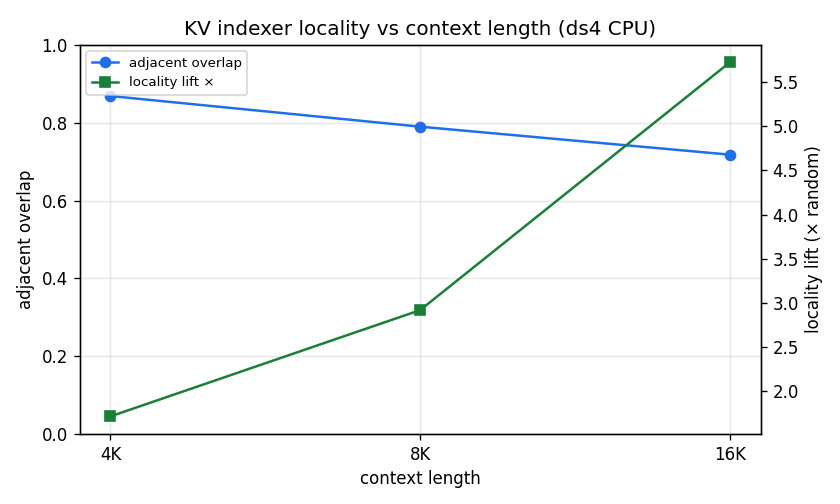
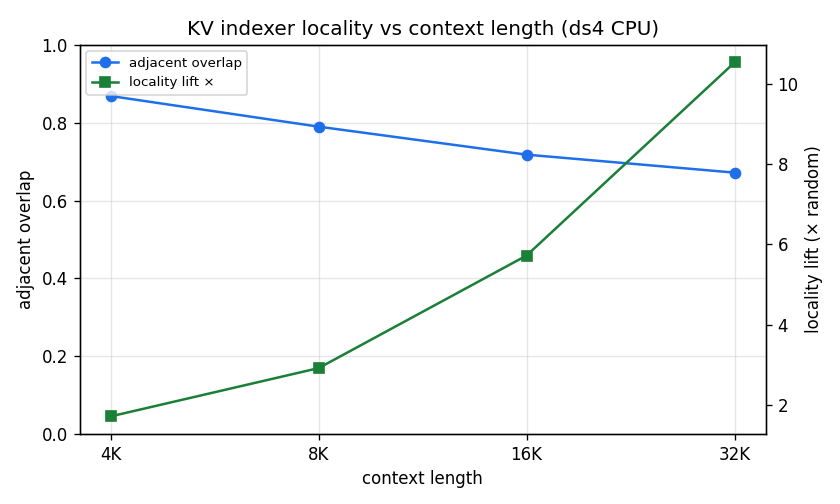
Sparse Attention Part III & IV: add the 32K sweep point
Both ds4 CPU reports now cover 4K/8K/16K/32K. Part III (KV): 32K row in the
setup, results, retention, working-set, semantic, and layer-group tables;
KPIs/plots updated (adjacent overlap 0.87->0.67, locality lift 1.7x->10.5x,
semantic-over-recency 6.7x at 32K). Part IV (MoE): 32K row in the learned +
retention/working-set tables; context-independence extended to 4 points
(0.376/0.373/0.374/0.348, ~15x random) with an honest note on the small 32K
dip; the per-layer decomposition confirmed at the 4th point. The MoE
context-scaling plot now uses a 0-based lift axis so the near-constant lift
isn't visually exaggerated.

Claude-Session: https://claude.ai/code/session_01Cz2EwUkKFPBe3N2CAyfRd1

diff --git a/04_sparse_attn/02_part3_cpu_kv_locality/report.html b/04_sparse_attn/02_part3_cpu_kv_locality/report.html
@@ -90,7 +90,7 @@
         <span class="tag">DeepSeek-V4-Flash (284B/13B MoE)</span>
         <span class="tag live">measured on CPU via ds4 (IQ2 quant)</span>
         <span class="tag">RULER niah_single_2, n=1 / length</span>
-        <span class="tag">context 4K · 8K · 16K</span>
+        <span class="tag">context 4K · 8K · 16K · 32K</span>
       </div>
     </header>
 
@@ -99,9 +99,9 @@
       <p class="lead">Part&nbsp;I measured how <b>predictable</b> DeepSeek-V4's per-token KV selection is on a GPU (vLLM/B200). Here we reproduce the core result on a completely different stack — a CPU-only C reference engine (<code class="k">ds4</code>) running the IQ2-quantized model — as a cross-check, and to instrument the exact same decode path that also emits the MoE routing trace in <a href="../03_part4_moe_locality/report.html">Part&nbsp;IV</a>. The temporal-locality picture holds.</p>
       <div class="headline">
         <div class="kpi"><div class="v">512</div><div class="l">KV entries selected per token, per CSA layer (top-k)</div></div>
-        <div class="kpi"><div class="v">0.87 &rarr; 0.72</div><div class="l">adjacent-step overlap, 4K &rarr; 16K</div></div>
-        <div class="kpi"><div class="v">1.7&times; &rarr; 5.7&times;</div><div class="l">locality lift over a random selection, rising with context</div></div>
-        <div class="kpi"><div class="v">3 / 3</div><div class="l">needle retrievals correct (4K, 8K, 16K)</div></div>
+        <div class="kpi"><div class="v">0.87 &rarr; 0.67</div><div class="l">adjacent-step overlap, 4K &rarr; 32K</div></div>
+        <div class="kpi"><div class="v">1.7&times; &rarr; 10.5&times;</div><div class="l">locality lift over a random selection, rising with context</div></div>
+        <div class="kpi"><div class="v">4 / 4</div><div class="l">needle retrievals correct (4K, 8K, 16K, 32K)</div></div>
       </div>
       <div class="callout"><b>Plain-language thesis.</b> The set of compressed-KV entries a token attends to is largely the same as the previous token's — and the further from random that gets (higher <i>lift</i>) as context grows, the more a small "hot set" in fast memory would pay off. This CPU run reproduces the GPU finding on an independent code path.</div>
     </section>
@@ -120,7 +120,7 @@
       <h2><span class="num">§2</span>Setup &amp; instrumentation</h2>
       <ul class="notes">
         <li><b>Engine.</b> <code class="k">ds4</code> — a single-file C CPU inference engine for DeepSeek-V4 — running <b>DeepSeek-V4-Flash</b> at IQ2 quantization (≈81&nbsp;GB), 64 threads, greedy decode (<code class="k">temp&nbsp;0</code>).</li>
-        <li><b>Task.</b> RULER <code class="k">niah_single_2</code> (single needle-in-a-haystack retrieval) at 4K, 8K, 16K tokens; one sample per length. The model retrieves the buried fact correctly at all three lengths.</li>
+        <li><b>Task.</b> RULER <code class="k">niah_single_2</code> (single needle-in-a-haystack retrieval) at 4K, 8K, 16K, 32K tokens; one sample per length. The model retrieves the buried fact correctly at all four lengths.</li>
         <li><b>Trace.</b> Every time a CSA layer's indexer selects its top-512, the selected compressed indices (and scores) are written to a JSONL trace — decode phase only — one record per (layer, token). 21 CSA layers of the 43 total.</li>
         <li><b>Analysis.</b> The trace is ingested to Parquet and reduced to the locality metrics below with the same code used for the GPU study, so the two are directly comparable.</li>
       </ul>
@@ -130,9 +130,10 @@
           <tr><td class="rowlabel">4K</td><td class="num">3,969</td><td class="num">153</td><td class="num">1,011</td><td class="num">50.6%</td><td class="num">~1h17m</td></tr>
           <tr><td class="rowlabel">8K</td><td class="num">7,485</td><td class="num">163</td><td class="num">1,891</td><td class="num">27.1%</td><td class="num">~1h53m</td></tr>
           <tr><td class="rowlabel">16K</td><td class="num">16,264</td><td class="num">117</td><td class="num">4,080</td><td class="num">12.5%</td><td class="num">~4h22m</td></tr>
+          <tr><td class="rowlabel">32K</td><td class="num">32,041</td><td class="num">117</td><td class="num">8,025</td><td class="num">6.4%</td><td class="num">~10h11m</td></tr>
         </tbody>
       </table>
-      <p class="cap">"Kept fraction" = 512 / candidate entries. As context grows the same 512-budget is drawn from a larger pool, so sparsity rises from ~2&times; (4K) to ~8&times; (16K).</p>
+      <p class="cap">"Kept fraction" = 512 / candidate entries. As context grows the same 512-budget is drawn from a larger pool, so sparsity rises from ~2&times; (4K) to ~16&times; (32K).</p>
     </section>
 
     <section class="card" id="metrics">
@@ -158,11 +159,12 @@
           <tr><td class="rowlabel">4K</td><td class="num">1,011</td><td class="num">2.0&times;</td><td class="num">0.868</td><td class="num">0.771</td><td class="num">0.132</td><td class="num">1.72&times;</td></tr>
           <tr><td class="rowlabel">8K</td><td class="num">1,891</td><td class="num">3.7&times;</td><td class="num">0.790</td><td class="num">0.662</td><td class="num">0.210</td><td class="num">2.92&times;</td></tr>
           <tr><td class="rowlabel">16K</td><td class="num">4,080</td><td class="num">8.0&times;</td><td class="num">0.718</td><td class="num">0.573</td><td class="num">0.282</td><td class="num">5.72&times;</td></tr>
+          <tr><td class="rowlabel">32K</td><td class="num">8,025</td><td class="num">15.7&times;</td><td class="num">0.672</td><td class="num">0.520</td><td class="num">0.328</td><td class="num">10.53&times;</td></tr>
         </tbody>
       </table>
       <figure>
         <img src="assets/kv_01_context_scaling.png" alt="KV adjacent overlap and locality lift versus context length">
-        <figcaption class="cap">Adjacent overlap (left axis) declines gently while locality lift (right axis) climbs 1.7&times;&rarr;5.7&times; from 4K to 16K. These CPU/IQ2 numbers match the GPU/vLLM values in Part&nbsp;I to within a few thousandths (e.g. 16K: 0.718 here vs 0.746 there).</figcaption>
+        <figcaption class="cap">Adjacent overlap (left axis) declines gently while locality lift (right axis) climbs 1.7&times;&rarr;10.5&times; from 4K to 32K. These CPU/IQ2 numbers match the GPU/vLLM values in Part&nbsp;I to within a few thousandths (e.g. 16K: 0.718 here vs 0.746 there).</figcaption>
       </figure>
       <div class="callout win"><b>Cross-stack agreement.</b> A completely separate CPU reference engine, at a different quantization, reproduces Part&nbsp;I's context-scaling curve. Temporal locality of KV selection is a property of the model, not the runtime.</div>
     </section>
@@ -176,18 +178,20 @@
           <tr><td class="rowlabel">4K</td><td class="num">0.868</td><td class="num">0.840</td><td class="num">0.815</td><td class="num">0.794</td><td class="num">0.779</td><td class="num">0.762</td><td class="num">0.753</td></tr>
           <tr><td class="rowlabel">8K</td><td class="num">0.790</td><td class="num">0.750</td><td class="num">0.712</td><td class="num">0.681</td><td class="num">0.669</td><td class="num">0.630</td><td class="num">0.606</td></tr>
           <tr><td class="rowlabel">16K</td><td class="num">0.718</td><td class="num">0.667</td><td class="num">0.619</td><td class="num">0.573</td><td class="num">0.532</td><td class="num">0.511</td><td class="num">0.498</td></tr>
+          <tr><td class="rowlabel">32K</td><td class="num">0.672</td><td class="num">0.622</td><td class="num">0.572</td><td class="num">0.541</td><td class="num">0.518</td><td class="num">0.467</td><td class="num">0.457</td></tr>
         </tbody>
       </table>
       <figure>
         <img src="assets/kv_02_retention.png" alt="KV retention versus decode lag for each context length">
-        <figcaption class="cap">Retention vs lag. Even 64 steps back, 4K keeps ~75% and 16K ~50% of the current selection.</figcaption>
+        <figcaption class="cap">Retention vs lag. Even 64 steps back, 4K keeps ~75% and 32K ~46% of the current selection.</figcaption>
       </figure>
-      <p>The <b>working-set ratio</b> shrinks fast with the window — the same entries keep recurring, so a compact hot set covers many steps. Over a 64-step window a CSA layer's union of selections is only 2.6% (4K) to 5.6% (16K) of <code class="k">64&times;512</code>:</p>
+      <p>The <b>working-set ratio</b> shrinks fast with the window — the same entries keep recurring, so a compact hot set covers many steps. Over a 64-step window a CSA layer's union of selections is only 2.6% (4K) to 6.7% (32K) of <code class="k">64&times;512</code>:</p>
       <table>
         <thead><tr><th>working-set ratio, window w &rarr;</th><th class="num">1</th><th class="num">2</th><th class="num">4</th><th class="num">8</th><th class="num">16</th><th class="num">32</th><th class="num">64</th></tr></thead>
         <tbody>
           <tr><td class="rowlabel">4K</td><td class="num">1.000</td><td class="num">0.565</td><td class="num">0.317</td><td class="num">0.176</td><td class="num">0.096</td><td class="num">0.051</td><td class="num">0.026</td></tr>
           <tr><td class="rowlabel">16K</td><td class="num">1.000</td><td class="num">0.640</td><td class="num">0.409</td><td class="num">0.259</td><td class="num">0.163</td><td class="num">0.099</td><td class="num">0.056</td></tr>
+          <tr><td class="rowlabel">32K</td><td class="num">1.000</td><td class="num">0.663</td><td class="num">0.437</td><td class="num">0.287</td><td class="num">0.185</td><td class="num">0.115</td><td class="num">0.067</td></tr>
         </tbody>
       </table>
     </section>
@@ -195,13 +199,14 @@
     <section class="card" id="semantic">
       <h2><span class="num">§6</span>Semantic reuse, not just recency</h2>
       <p class="lead">Is the model just re-picking the most-recent entries, or genuinely returning to old, relevant ones?</p>
-      <p>Compare the actual adjacent overlap to a <b>recency baseline</b> — the overlap with the most-recent 512 entries. If selection were pure recency, the two would match. Instead the gap widens with context: at 16K the model's selection is <b>4.6&times;</b> more self-similar than a recency policy would explain.</p>
+      <p>Compare the actual adjacent overlap to a <b>recency baseline</b> — the overlap with the most-recent 512 entries. If selection were pure recency, the two would match. Instead the gap widens with context: at 32K the model's selection is <b>6.7&times;</b> more self-similar than a recency policy would explain.</p>
       <table>
         <thead><tr><th>Context</th><th class="num">adjacent overlap</th><th class="num">recency baseline</th><th class="num">ratio</th></tr></thead>
         <tbody>
           <tr><td class="rowlabel">4K</td><td class="num">0.868</td><td class="num">0.429</td><td class="num">2.0&times;</td></tr>
           <tr><td class="rowlabel">8K</td><td class="num">0.790</td><td class="num">0.308</td><td class="num">2.6&times;</td></tr>
           <tr><td class="rowlabel">16K</td><td class="num">0.718</td><td class="num">0.157</td><td class="num">4.6&times;</td></tr>
+          <tr><td class="rowlabel">32K</td><td class="num">0.672</td><td class="num">0.100</td><td class="num">6.7&times;</td></tr>
         </tbody>
       </table>
       <div class="callout win"><b>Interpretation.</b> The selected set is <b>semantically</b> sticky — it keeps returning to the same old, relevant entries (here, the needle block), far beyond what a "keep the latest" policy captures. A prefetcher must track content, not just recency.</div>
@@ -216,6 +221,7 @@
           <tr><td class="rowlabel">4K</td><td class="num">0.860</td><td class="num">0.861</td><td class="num">0.884</td></tr>
           <tr><td class="rowlabel">8K</td><td class="num">0.779</td><td class="num">0.778</td><td class="num">0.812</td></tr>
           <tr><td class="rowlabel">16K</td><td class="num">0.713</td><td class="num">0.691</td><td class="num">0.750</td></tr>
+          <tr><td class="rowlabel">32K</td><td class="num">0.659</td><td class="num">0.644</td><td class="num">0.711</td></tr>
         </tbody>
       </table>
       <figure>
@@ -227,10 +233,10 @@
     <section class="card" id="takeaways">
       <h2><span class="num">§8</span>Takeaways</h2>
       <ul class="notes">
-        <li>An <b>independent CPU reference engine (ds4, IQ2)</b> reproduces the GPU/vLLM temporal-locality result: adjacent overlap 0.87&rarr;0.72 over 4K&rarr;16K, locality lift 1.7&times;&rarr;5.7&times;.</li>
+        <li>An <b>independent CPU reference engine (ds4, IQ2)</b> reproduces the GPU/vLLM temporal-locality result: adjacent overlap 0.87&rarr;0.67 over 4K&rarr;32K, locality lift 1.7&times;&rarr;10.5&times;.</li>
         <li>Locality <b>lift rises with context</b> — the selection gets more non-random exactly as the KV cache gets expensive.</li>
-        <li>Reuse is <b>semantic, not merely recent</b> — up to 4.6&times; beyond a recency baseline at 16K.</li>
-        <li>A compact hot set works: a 64-step working set is ≤5.6% of <code class="k">64&times;512</code>.</li>
+        <li>Reuse is <b>semantic, not merely recent</b> — up to 6.7&times; beyond a recency baseline at 32K.</li>
+        <li>A compact hot set works: a 64-step working set is ≤6.7% of <code class="k">64&times;512</code>.</li>
         <li>Deep layers are the most stable → per-layer budgets make sense.</li>
         <li>This CPU decode path is the same one that emits the MoE routing trace in <a href="../03_part4_moe_locality/report.html"><b>Part&nbsp;IV</b></a>.</li>
       </ul>
@@ -239,7 +245,7 @@
     <section class="card" id="limits">
       <h2><span class="num">§9</span>Honest limitations</h2>
       <ul class="notes">
-        <li><b>n = 1 per length.</b> One RULER sample each at 4K/8K/16K — no cross-sample confidence intervals (Part&nbsp;I's 60+ prompts supply that; the point here is cross-stack agreement).</li>
+        <li><b>n = 1 per length.</b> One RULER sample each at 4K/8K/16K/32K — no cross-sample confidence intervals (Part&nbsp;I's 60+ prompts supply that; the point here is cross-stack agreement).</li>
         <li><b>IQ2 quantization + CPU reference path.</b> Selections come from a heavily quantized model on a reference (non-GPU) kernel path; quantization may shift selections slightly versus full precision.</li>
         <li><b>Logical compressed-KV indices.</b> Overlaps are over logical entry ids, not a physical cache — an upper bound that ignores prefetch timing and bandwidth.</li>
         <li><b>Greedy decode, RULER needle task.</b> A single retrieval workload; broader tasks would strengthen external validity.</li>

diff --git a/04_sparse_attn/03_part4_moe_locality/report.html b/04_sparse_attn/03_part4_moe_locality/report.html
@@ -92,7 +92,7 @@
         <span class="tag">DeepSeek-V4-Flash (256 experts / 6 active)</span>
         <span class="tag live">measured on CPU via ds4 (IQ2 quant)</span>
         <span class="tag">RULER niah_single_2, n=1 / length</span>
-        <span class="tag">context 4K · 8K · 16K</span>
+        <span class="tag">context 4K · 8K · 16K · 32K</span>
       </div>
     </header>
 
@@ -103,7 +103,7 @@
         <div class="kpi"><div class="v">6 / 256</div><div class="l">experts activated per token, per layer (+1 shared)</div></div>
         <div class="kpi"><div class="v">~2.2 / 6</div><div class="l">experts carried over from the previous token (learned layers)</div></div>
         <div class="kpi"><div class="v">16&times;</div><div class="l">more self-similar than random expert choice (6/256)</div></div>
-        <div class="kpi"><div class="v">flat</div><div class="l">routing locality is the same at 4K, 8K, 16K</div></div>
+        <div class="kpi"><div class="v">flat</div><div class="l">routing locality barely moves across 4K&ndash;32K</div></div>
       </div>
       <div class="callout"><b>Plain-language thesis.</b> A token's chosen experts are substantially the same as the previous token's — about <b>2 of 6</b> persist step to step, 16&times; above chance. Unlike KV selection, this holds <i>independent of context length</i>, because the expert pool is fixed at 256. The three deterministic hash-routed layers are the exception: they are <i>not</i> temporally local, by construction.</div>
     </section>
@@ -124,7 +124,7 @@
       <ul class="notes">
         <li><b>Same run, second trace.</b> We instrumented the <code class="k">ds4</code> CPU decode path so that, right after the router selects its 6 experts, it logs <code class="k">(layer, decode&nbsp;step, token, the 6 expert ids, their weights)</code> — one record per (layer, token), decode phase only. This runs alongside the KV-indexer trace of <a href="../02_part3_cpu_kv_locality/report.html">Part&nbsp;III</a>, from the <i>same</i> forward pass.</li>
         <li><b>Coverage.</b> MoE routing happens in <b>every</b> layer's FFN (43 layers) — denser than the CSA indexer's 21 layers. Of those, 3 are hash-routed and 40 are learned-routed.</li>
-        <li><b>Workload.</b> RULER <code class="k">niah_single_2</code> at 4K, 8K, 16K; greedy decode; DeepSeek-V4-Flash at IQ2. 117–163 decode steps per run &times; 43 layers &times; 6 experts.</li>
+        <li><b>Workload.</b> RULER <code class="k">niah_single_2</code> at 4K, 8K, 16K, 32K; greedy decode; DeepSeek-V4-Flash at IQ2. 117–163 decode steps per run &times; 43 layers &times; 6 experts.</li>
         <li><b>Analysis.</b> The same id-set locality metrics used for KV selection, applied to the 6-expert sets, with hash and learned layers reported separately.</li>
       </ul>
     </section>
@@ -150,9 +150,10 @@
           <tr><td class="rowlabel">4K</td><td class="num">0.376</td><td class="num">2.26</td><td class="num">0.257</td><td class="num">0.624</td><td class="num">16.0&times;</td></tr>
           <tr><td class="rowlabel">8K</td><td class="num">0.373</td><td class="num">2.24</td><td class="num">0.256</td><td class="num">0.627</td><td class="num">15.9&times;</td></tr>
           <tr><td class="rowlabel">16K</td><td class="num">0.374</td><td class="num">2.24</td><td class="num">0.256</td><td class="num">0.626</td><td class="num">16.0&times;</td></tr>
+          <tr><td class="rowlabel">32K</td><td class="num">0.348</td><td class="num">2.09</td><td class="num">0.235</td><td class="num">0.652</td><td class="num">14.9&times;</td></tr>
         </tbody>
       </table>
-      <p class="cap">Learned layers only (hash layers excluded). "Experts carried / 6" = adjacent overlap &times; 6.</p>
+      <p class="cap">Learned layers only (hash layers excluded). "Experts carried / 6" = adjacent overlap &times; 6. The 32K point dips slightly (0.348 vs ~0.374) — within n=1 content variation, and still ~15&times; random with no KV-like context trend.</p>
       <figure>
         <img src="assets/moe_01_adjacent_overlap_by_layer.png" alt="MoE adjacent-step expert overlap by layer">
         <figcaption class="cap">Adjacent-step expert overlap per layer. Learned layers (circles) sit near 0.37 — 16&times; the dashed random line at 0.023 — while the three hash-routed layers (×, near the floor) route almost independently step to step.</figcaption>
@@ -162,10 +163,10 @@
     <section class="card" id="context">
       <h2><span class="num">§5</span>It is context-independent — unlike KV selection</h2>
       <p class="lead">The single most striking contrast with the attention side.</p>
-      <p>KV-selection locality <i>changes</i> with context: as the candidate pool grows, the lift rises (Part&nbsp;III: 1.7&times;&rarr;5.7&times; over 4K&rarr;16K). MoE routing does <b>not</b> — its pool is <b>fixed at 256 experts</b> regardless of context, so the routing-locality regime is the same at every length. The adjacent overlap is <b>0.376 / 0.373 / 0.374</b> at 4K / 8K / 16K — identical within 0.002.</p>
+      <p>KV-selection locality <i>changes</i> strongly with context: as the candidate pool grows, the lift rises (Part&nbsp;III: 1.7&times;&rarr;10.5&times; over 4K&rarr;32K). MoE routing does <b>not</b> — its pool is <b>fixed at 256 experts</b> regardless of context, so the routing-locality regime barely moves. The adjacent overlap is <b>0.376 / 0.373 / 0.374 / 0.348</b> at 4K / 8K / 16K / 32K — flat within ~0.03 with no systematic trend (the 32K dip is within n=1 content variation), versus KV's 0.87&rarr;0.67 over the same span.</p>
       <figure>
         <img src="assets/moe_05_context_scaling.png" alt="MoE locality versus context length, essentially flat">
-        <figcaption class="cap">MoE adjacent overlap and lift are flat across context length. The 4K/8K/16K expert-selection behavior is interchangeable — a clean consequence of the fixed 256-expert pool.</figcaption>
+        <figcaption class="cap">MoE adjacent overlap and lift are flat across context length (note the lift axis is 0-based — the tiny 32K dip is 16.0&rarr;14.9&times;, not a crash). Expert-selection behavior is near-interchangeable across 4K&ndash;32K — a clean consequence of the fixed 256-expert pool.</figcaption>
       </figure>
       <div class="callout"><b>Why it matters.</b> Sweeping context length is the right axis for studying <i>KV</i> locality (it changes the sparsity regime) but not for <i>MoE</i> locality (it does not). For expert caching, the informative axis is decode <i>length</i> — how long a hot-expert set stays warm — not prompt length.</div>
     </section>
@@ -196,7 +197,7 @@
       <p>Over a decode, each of the 40 learned layers routes with a clear favored set: its single most-used expert fires for <b>22%–85%</b> of tokens (uniform would be 2.3%), just <b>7–32 experts cover 50%</b> of the layer's routing, and normalized entropy is 0.63–0.85 (below the uniform 1.0). The 3 hash layers are near-uniform (top-expert rate 0.12–0.16, ~50 experts for 50%, entropy 0.92) — the control. Yet every learned layer still <i>touches ~half</i> the 256-pool (88–171 distinct experts), so the shape is a <b>concentrated core plus a long exploring tail</b>, never a fixed 6. The peakiest layers (L14, L15: one expert on the committee for 85% of tokens; 7 experts do half the work) cluster mid-stack; the flattest learned layer is L39 (0.22).</p>
 
       <h3>Static preference vs dynamic correlation</h3>
-      <p>Split each layer's overlap into <b>static preference</b> — the overlap you'd get if consecutive tokens were <i>independent</i> draws from that layer's own usage distribution — and <b>dynamic correlation</b> — the excess on top. For the learned layers (consistent across 4K/8K/16K):</p>
+      <p>Split each layer's overlap into <b>static preference</b> — the overlap you'd get if consecutive tokens were <i>independent</i> draws from that layer's own usage distribution — and <b>dynamic correlation</b> — the excess on top. For the learned layers (consistent across all four lengths: static ~0.17, dynamic ~2.3&times;, corr(static,observed) ≈ +0.85, corr(dynamic,concentration) ≈ &minus;0.82):</p>
       <table>
         <thead><tr><th>component</th><th class="num">adjacent overlap</th><th class="num">× over uniform</th><th class="num">what it is</th></tr></thead>
         <tbody>
@@ -234,6 +235,7 @@
           <tr><td class="rowlabel">4K</td><td class="num">0.376</td><td class="num">0.264</td><td class="num">0.203</td><td class="num">0.174</td><td class="num">0.166</td><td class="num">0.143</td><td class="num">0.162</td></tr>
           <tr><td class="rowlabel">8K</td><td class="num">0.373</td><td class="num">0.270</td><td class="num">0.207</td><td class="num">0.173</td><td class="num">0.176</td><td class="num">0.150</td><td class="num">0.127</td></tr>
           <tr><td class="rowlabel">16K</td><td class="num">0.374</td><td class="num">0.270</td><td class="num">0.214</td><td class="num">0.167</td><td class="num">0.134</td><td class="num">0.153</td><td class="num">0.144</td></tr>
+          <tr><td class="rowlabel">32K</td><td class="num">0.348</td><td class="num">0.258</td><td class="num">0.205</td><td class="num">0.180</td><td class="num">0.180</td><td class="num">0.143</td><td class="num">0.136</td></tr>
         </tbody>
       </table>
       <figure>
@@ -246,6 +248,7 @@
         <tbody>
           <tr><td class="rowlabel">4K</td><td class="num">1.000</td><td class="num">0.810</td><td class="num">0.666</td><td class="num">0.546</td><td class="num">0.429</td><td class="num">0.311</td><td class="num">0.200</td></tr>
           <tr><td class="rowlabel">16K</td><td class="num">1.000</td><td class="num">0.810</td><td class="num">0.664</td><td class="num">0.537</td><td class="num">0.420</td><td class="num">0.307</td><td class="num">0.195</td></tr>
+          <tr><td class="rowlabel">32K</td><td class="num">1.000</td><td class="num">0.823</td><td class="num">0.677</td><td class="num">0.551</td><td class="num">0.427</td><td class="num">0.302</td><td class="num">0.194</td></tr>
         </tbody>
       </table>
       <figure>
@@ -270,7 +273,7 @@
       <ul class="notes">
         <li><b>Per-layer structure:</b> every learned layer keeps a preferred committee (7–32 experts do half its routing, one expert often used in the majority of tokens); the ~16× lift ≈ <b>7.4× static preference × 2.3× temporal correlation</b>. Early layers = fixed specialists, deep layers = context trackers; hash layers are near-uniform.</li>
         <li>Learned MoE routing is <b>strongly temporally local</b>: ~0.374 adjacent overlap (~2.2 of 6 experts persist), <b>16&times;</b> the 6/256 random baseline.</li>
-        <li>It is <b>context-independent</b> (0.374 ± 0.002 across 4K/8K/16K) — the fixed 256-expert pool means prompt length does not change the regime. This contrasts sharply with KV-selection locality, which strengthens with context.</li>
+        <li>It is <b>context-independent</b> (0.35–0.38 across 4K/8K/16K/32K, no systematic trend) — the fixed 256-expert pool means prompt length does not change the regime. This contrasts sharply with KV-selection locality, which strengthens with context (lift 1.7&times;&rarr;10.5&times;).</li>
         <li>The <b>3 hash-routed layers are not local</b> (≈ random) — a property of deterministic token-id routing, reported separately.</li>
         <li>Retention has a <b>durable core</b> (still 6&times; random at lag 64) but the <b>working set is broad</b> (~47% of experts over a full decode).</li>
         <li>Collected from the <b>same decode pass</b> as the KV trace in <a href="../02_part3_cpu_kv_locality/report.html"><b>Part&nbsp;III</b></a>, so attention- and FFN-sparsity are aligned per (layer, step).</li>
@@ -281,7 +284,7 @@
       <h2><span class="num">§11</span>Honest limitations</h2>
       <ul class="notes">
         <li><b>n = 1 per length</b>, IQ2 quantization, CPU reference path — quantization can shift the router's top-6 versus full precision; no cross-sample confidence intervals.</li>
-        <li><b>Context sweep is the wrong axis for MoE.</b> Because the expert pool is fixed, 4K/8K/16K mostly vary token content, not the sparsity regime; a <b>decode-length</b> sweep would probe how long the hot-expert set stays warm (future work).</li>
+        <li><b>Context sweep is the wrong axis for MoE.</b> Because the expert pool is fixed, 4K/8K/16K/32K mostly vary token content, not the sparsity regime; a <b>decode-length</b> sweep would probe how long the hot-expert set stays warm (future work).</li>
         <li><b>Logical expert ids, not a physical cache</b> — overlaps are an upper bound that ignores expert-load timing and bandwidth.</li>
         <li><b>Greedy decode on a single retrieval task</b> (RULER needle); other tasks and samplers may route differently.</li>
       </ul>
